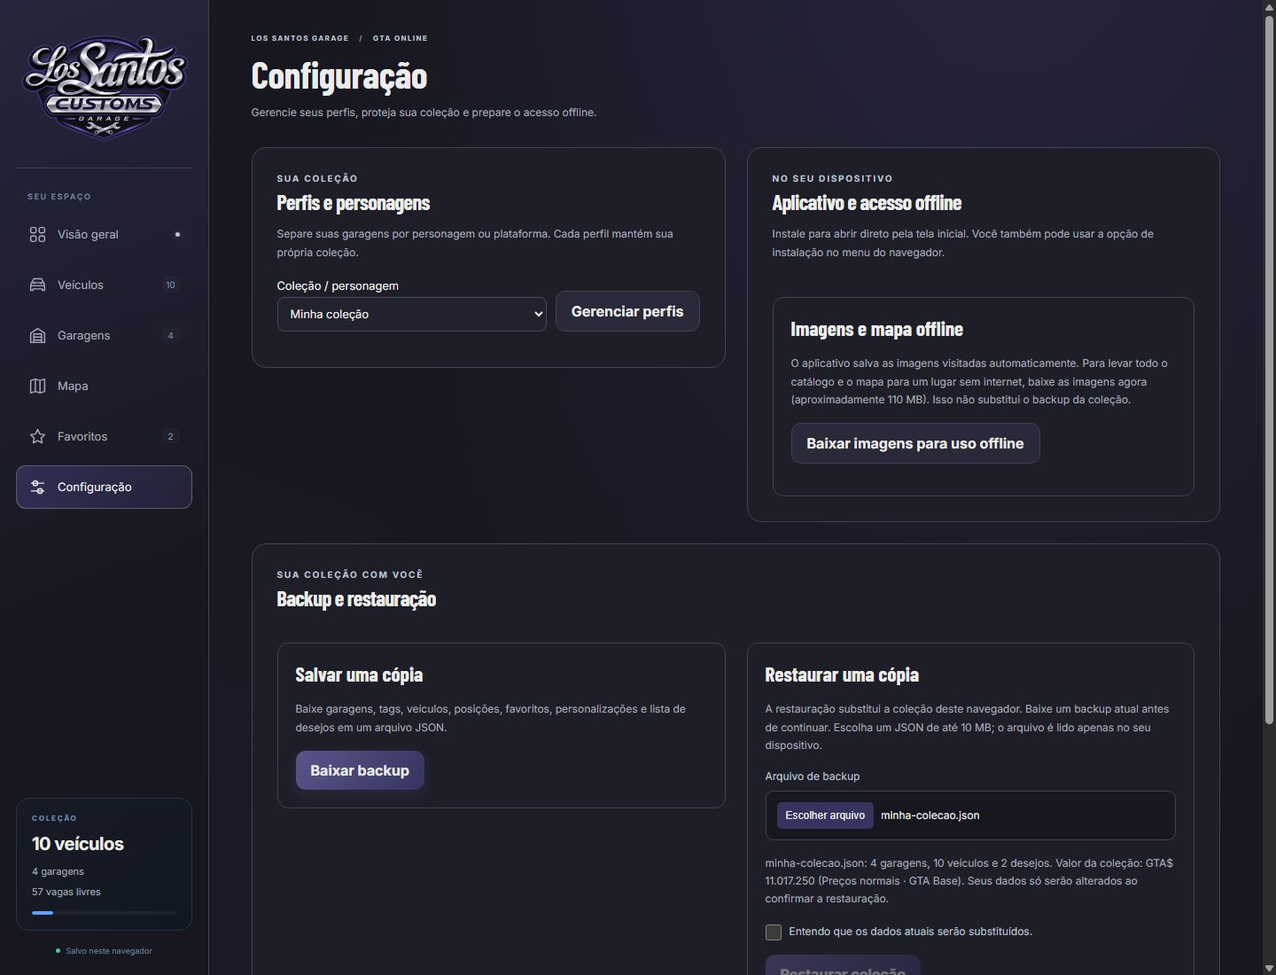
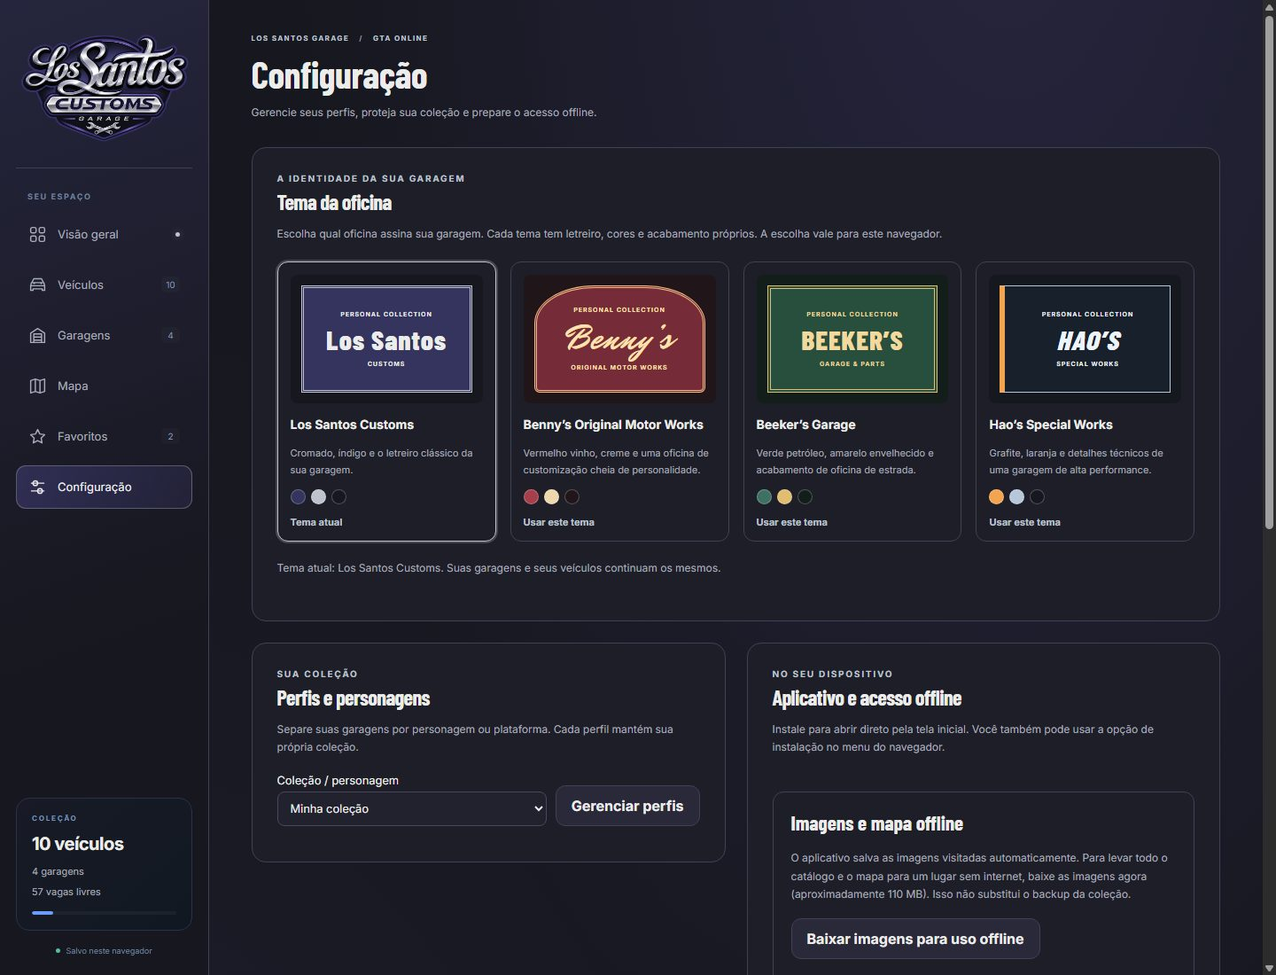
feat: adiciona identidades de oficinas como temas da garagem

diff --git a/workshop-themes.css b/workshop-themes.css
@@ -1,0 +1,78 @@
+:root { --wk-bg:#17171f;--wk-panel:#1e1e29;--wk-raised:#29293a;--wk-line:#414155;--wk-accent:#bfc3ce;--wk-strong:#35345f;--wk-muted:#a8acba;--wk-text:#ecedeb;--wk-button:#59558b;--wk-button-text:#ecedeb; }
+:root[data-workshop-theme=bennys] { --wk-bg:#201619;--wk-panel:#2d1e23;--wk-raised:#3b2930;--wk-line:#65424a;--wk-accent:#efbc83;--wk-strong:#a23d4c;--wk-muted:#c9b5b6;--wk-text:#fff1de;--wk-button:#9e3444;--wk-button-text:#fff1de; }
+:root[data-workshop-theme=beekers] { --wk-bg:#131e1b;--wk-panel:#1d2d26;--wk-raised:#273e33;--wk-line:#4a6659;--wk-accent:#e1bd72;--wk-strong:#47765e;--wk-muted:#b2c6b9;--wk-text:#f0f0dc;--wk-button:#355a46;--wk-button-text:#f0f0dc; }
+:root[data-workshop-theme=haos] { --wk-bg:#15191f;--wk-panel:#1d2632;--wk-raised:#293444;--wk-line:#4d5c70;--wk-accent:#ffbd72;--wk-strong:#465d77;--wk-muted:#b6c5d8;--wk-text:#eef4fb;--wk-button:#f3a450;--wk-button-text:#1a202b; }
+:root[data-workshop-theme]:not([data-workshop-theme=lsc]) { --bg:var(--wk-bg);--graphite:var(--wk-bg);--surface:var(--wk-panel);--surface-2:var(--wk-raised);--line:var(--wk-line);--accent:var(--wk-accent);--accent-2:var(--wk-strong);--indigo:var(--wk-strong);--violet:var(--wk-strong);--silver:var(--wk-accent);--ice:var(--wk-text);--muted:var(--wk-muted);--text:var(--wk-text); }
+html[data-workshop-theme]:not([data-workshop-theme=lsc]) body { background:radial-gradient(ellipse at 90% 0,color-mix(in srgb,var(--wk-strong) 30%,transparent),transparent 48%),var(--wk-bg); }
+html[data-workshop-theme]:not([data-workshop-theme=lsc]) .sidebar { background:linear-gradient(160deg,var(--wk-panel),var(--wk-bg) 70%);border-color:var(--wk-line); }
+html[data-workshop-theme]:not([data-workshop-theme=lsc]) :is(.stat-card,.garage-card,.vehicle-card,.sidebar-card,.search,#categoryFilter,.plus-filters select,.plus-bar select,.plus-notice,dialog,.secondary-button) { background:var(--wk-panel);border-color:var(--wk-line);color:var(--wk-text); }
+html[data-workshop-theme]:not([data-workshop-theme=lsc]) :is(.stat-card.collection-value-card,.nav-item.active) { background:linear-gradient(120deg,color-mix(in srgb,var(--wk-strong) 45%,var(--wk-panel)),var(--wk-panel));border-color:var(--wk-accent);color:var(--wk-text); }
+html[data-workshop-theme]:not([data-workshop-theme=lsc]) :is(.eyebrow,.page-breadcrumb,.search input,.collection-value-card strong,.stat-icon.green,.stat-icon.blue,.stat-icon.cyan) { color:var(--wk-accent); }
+html[data-workshop-theme]:not([data-workshop-theme=lsc]) .primary-button { color:var(--wk-button-text);background:var(--wk-button);border-color:var(--wk-accent);box-shadow:0 5px 18px #0003; }
+html[data-workshop-theme]:not([data-workshop-theme=lsc]) .primary-button:hover { filter:brightness(1.13); }
+html[data-workshop-theme]:not([data-workshop-theme=lsc]) .secondary-button:hover { background:var(--wk-raised); }
+html[data-workshop-theme]:not([data-workshop-theme=lsc]) :is(.settings-card,.vehicle-image,.vehicle-draft-preview,.comparison-table,.batch-vehicle,.wishlist-card) { border-color:var(--wk-line); }
+html[data-workshop-theme]:not([data-workshop-theme=lsc]) .lsg-brand-banner { background:repeating-linear-gradient(0deg,#0001 0 3px,transparent 3px 20px),linear-gradient(110deg,var(--wk-strong),var(--wk-bg) 70%);border:1px solid var(--wk-accent);border-bottom:7px solid var(--wk-strong);min-height:280px;padding:32px 38px 48px; }
+html[data-workshop-theme]:not([data-workshop-theme=lsc]) .lsg-wordmark { width:50%;max-width:440px; }
+html[data-workshop-theme]:not([data-workshop-theme=lsc]) :is(.brand-logo,.lsg-banner-logo) { display:none; }
+html[data-workshop-theme]:not([data-workshop-theme=lsc]) .lsg-brand-caption { border-color:var(--wk-accent); }
+html[data-workshop-theme]:not([data-workshop-theme=lsc]) .lsg-brand-caption :is(h2,span) { color:var(--wk-text); }
+html[data-workshop-theme]:not([data-workshop-theme=lsc]) .lsg-brand-caption small { color:var(--wk-muted); }
+html[data-workshop-theme]:not([data-workshop-theme=lsc]) .lsg-banner-stripe { background:var(--wk-accent);box-shadow:-5px 0 var(--wk-strong); }
+.workshop-mark { display:none; }
+html[data-workshop-theme]:not([data-workshop-theme=lsc]) .workshop-mark,.workshop-theme-preview .workshop-mark { display:flex;flex-direction:column;align-items:center;justify-content:center;gap:9px;text-align:center;width:100%;min-width:0;color:var(--wk-text);padding:26px 14px;border:3px double var(--wk-accent);background:var(--wk-panel);box-shadow:0 7px 0 #0004; }
+.workshop-mark strong { font:800 clamp(36px,5vw,78px)/1 "Barlow Condensed",sans-serif;letter-spacing:1px; }
+.workshop-mark small { font:600 10px/1.6 Inter,sans-serif;letter-spacing:3px; }
+.workshop-mark .workshop-initial { display:none; }
+.workshop-mark-mini { padding:18px 8px!important;gap:7px!important; }
+.workshop-mark-mini strong { font-size:36px; }
+.workshop-mark-mini small { font-size:7px;letter-spacing:1px; }
+html[data-workshop-theme=bennys] :is(.brand,.lsg-wordmark) .workshop-mark { border-radius:50% 50% 8px 8px / 22% 22% 8px 8px;background:#762b38;color:#ffe2af;border-color:#efbc83; }
+html[data-workshop-theme=bennys] :is(.brand,.lsg-wordmark) .workshop-mark strong { font-family:"Mr Dafoe","Brush Script MT",cursive;font-weight:400;text-shadow:2px 3px #32171c; }
+html[data-workshop-theme=bennys] .lsg-brand-banner::before { background:repeating-linear-gradient(45deg,#efd8ad09 0 8px,transparent 8px 20px);border-color:#efbc8355; }
+html[data-workshop-theme=beekers] :is(.brand,.lsg-wordmark) .workshop-mark { background:repeating-linear-gradient(0deg,#ffffff05 0 2px,transparent 2px 6px),#284e3d;border-color:#e1bd72;border-width:5px;border-style:double;color:#f1d99f;transform:rotate(-1deg); }
+html[data-workshop-theme=beekers] :is(.brand,.lsg-wordmark) .workshop-mark strong { font-stretch:condensed;letter-spacing:3px; }
+html[data-workshop-theme=haos] :is(.brand,.lsg-wordmark) .workshop-mark { border-width:1px;border-left:9px solid #f3a450;background:repeating-linear-gradient(125deg,#ffffff03 0 3px,transparent 3px 7px),#18212b;color:#eef4fb; }
+html[data-workshop-theme=haos] :is(.brand,.lsg-wordmark) .workshop-mark strong { font-style:italic;letter-spacing:7px; }
+html[data-workshop-theme=haos] :is(.brand,.lsg-wordmark) .workshop-mark small:last-of-type { color:#ffbd72; }
+html[data-workshop-theme=haos] .lsg-brand-banner::before { background:linear-gradient(125deg,transparent 56%,#f3a45222 56% 58%,transparent 58% 60%,#f3a45233 60% 62%,transparent 62%);border-radius:0; }
+.workshop-bay-plaque { display:none; }
+html[data-workshop-theme]:not([data-workshop-theme=lsc]) .workshop-bay-plaque { display:block;position:absolute;bottom:17px;left:40px;font:700 9px/1.4 Inter,sans-serif;letter-spacing:3px;color:var(--wk-accent); }
+.workshop-theme-choices { display:grid;grid-template-columns:repeat(4,minmax(0,1fr));gap:16px;margin:20px 0; }
+.workshop-theme-choice { min-width:0;display:flex;flex-direction:column;align-items:flex-start;gap:13px;padding:14px;border:1px solid var(--line);border-radius:12px;background:var(--surface);color:var(--text);text-align:left;cursor:pointer; }
+.workshop-theme-choice[aria-pressed=true] { border-color:var(--silver);box-shadow:0 0 0 2px color-mix(in srgb,var(--silver) 25%,transparent); }
+.workshop-theme-choice:focus-visible { outline:3px solid var(--silver);outline-offset:4px; }
+.workshop-theme-choice>strong { font-size:14px;line-height:1.5; }
+.workshop-theme-preview { display:flex;align-items:center;justify-content:center;width:100%;height:145px;padding:12px;background:#17171f;border-radius:8px;overflow:hidden; }
+.workshop-theme-preview .workshop-mark { display:flex!important;min-height:100%;padding:12px 6px;gap:7px;box-shadow:none;color:#ecedeb;background:#35345f;border-color:#bfc3ce;transform:none; }
+.workshop-theme-preview .workshop-mark strong { font:800 31px/1 "Barlow Condensed",sans-serif;letter-spacing:1px; }
+.workshop-theme-preview .workshop-mark small { font:600 7px/1.6 Inter,sans-serif;letter-spacing:1px; }
+.workshop-theme-choice[data-workshop-choice=bennys] .workshop-theme-preview { background:#201619; }
+.workshop-theme-choice[data-workshop-choice=bennys] .workshop-mark { color:#ffe2af!important;background:#762b38!important;border:3px double #efbc83!important;border-radius:35% 35% 6px 6px; }
+.workshop-theme-choice[data-workshop-choice=bennys] .workshop-mark strong { font-family:"Mr Dafoe","Brush Script MT",cursive;font-size:40px;font-weight:400; }
+.workshop-theme-choice[data-workshop-choice=beekers] .workshop-theme-preview { background:#131e1b; }
+.workshop-theme-choice[data-workshop-choice=beekers] .workshop-mark { color:#f1d99f!important;background:#284e3d!important;border:4px double #e1bd72!important;border-radius:0; }
+.workshop-theme-choice[data-workshop-choice=haos] .workshop-theme-preview { background:#15191f; }
+.workshop-theme-choice[data-workshop-choice=haos] .workshop-mark { color:#eef4fb!important;background:#18212b!important;border:1px solid #b7c7d9!important;border-left:6px solid #f3a450!important;border-radius:0; }
+.workshop-theme-choice[data-workshop-choice=haos] .workshop-mark strong { font-style:italic; }
+.workshop-choice-description { color:var(--muted);font-size:11px;line-height:1.7;flex:1; }
+.workshop-swatches { display:flex;gap:6px; }
+.workshop-swatches i { width:17px;height:17px;border:1px solid #ffffff40;border-radius:50%; }
+.workshop-choice-state { font-size:11px;font-weight:700;color:var(--silver); }
+@media(max-width:1100px) { .workshop-theme-choices { grid-template-columns:repeat(2,minmax(0,1fr)); } }
+@media(min-width:761px) and (max-width:1050px) {
+  .brand .workshop-mark-mini { border:0!important;transform:none!important;background:none!important;box-shadow:none;padding:0!important; }
+  .brand .workshop-mark-mini :is(strong,small) { display:none; }
+  .brand .workshop-initial { display:block;font:800 17px/1.4 "Barlow Condensed",sans-serif;color:var(--wk-accent); }
+}
+@media(max-width:760px) {
+  html[data-workshop-theme]:not([data-workshop-theme=lsc]) .lsg-brand-banner { padding:26px 20px 48px; }
+  html[data-workshop-theme]:not([data-workshop-theme=lsc]) .lsg-wordmark { width:100%; }
+  .workshop-bay-plaque { left:22px!important;font-size:8px!important; }
+  .workshop-theme-choices { gap:10px; }
+  .workshop-theme-choice { padding:10px;gap:10px; }
+  .workshop-theme-preview { padding:5px;height:120px; }
+  .workshop-theme-preview .workshop-mark strong { font-size:24px; }
+  .workshop-theme-preview .workshop-mark small { font-size:6px;letter-spacing:0; }
+}
+@media(max-width:380px) { .workshop-theme-choices { grid-template-columns:minmax(0,1fr); } }

diff --git a/workshop-themes.js b/workshop-themes.js
@@ -1,0 +1,64 @@
+// Apply the saved identity before rendering the page. Collection data is separate.
+const WORKSHOP_THEME_KEY = "lsg-workshop-theme-v1";
+const WORKSHOP_THEMES = Object.freeze([
+  {id:"lsc",name:"Los Santos Customs",short:"LSC",heading:"Los Santos",tagline:"CUSTOMS",place:"LOS SANTOS · SAN ANDREAS",description:"Cromado, índigo e o letreiro clássico da sua garagem.",caption:"Sua coleção.\nCada carro no seu lugar.",footer:"Garagens, projetos e cultura automotiva.",color:"#17171f",palette:["#35345f","#bfc3ce","#17171f"]},
+  {id:"bennys",name:"Benny’s Original Motor Works",short:"B",heading:"Benny’s",tagline:"ORIGINAL MOTOR WORKS",place:"STRAWBERRY · LOS SANTOS",description:"Vermelho vinho, creme e uma oficina de customização cheia de personalidade.",caption:"Cada detalhe.\nUma assinatura sua.",footer:"Sua coleção de lowriders, clássicos e projetos especiais.",color:"#201619",palette:["#a63f4b","#efd8ad","#201619"]},
+  {id:"beekers",name:"Beeker’s Garage",short:"BG",heading:"BEEKER’S",tagline:"GARAGE & PARTS",place:"PALETO BAY · BLAINE COUNTY",description:"Verde petróleo, amarelo envelhecido e acabamento de oficina de estrada.",caption:"De portas abertas.\nPronta para a estrada.",footer:"Sua garagem no norte de San Andreas.",color:"#131e1b",palette:["#3e7163","#e1bd72","#131e1b"]},
+  {id:"haos",name:"Hao’s Special Works",short:"HSW",heading:"HAO’S",tagline:"SPECIAL WORKS",place:"LS CAR MEET · CYPRESS FLATS",description:"Grafite, laranja e detalhes técnicos de uma garagem de alta performance.",caption:"Seu próximo projeto.\nUm nível acima.",footer:"Uma coleção com espírito de preparação e desempenho.",color:"#15191f",palette:["#f3a450","#b7c7d9","#15191f"]}
+]);
+function readWorkshopTheme() {
+  try {const id=localStorage.getItem(WORKSHOP_THEME_KEY);return WORKSHOP_THEMES.find(theme=>theme.id===id)||WORKSHOP_THEMES[0];}
+  catch {return WORKSHOP_THEMES[0];}
+}
+document.documentElement.dataset.workshopTheme=readWorkshopTheme().id;
+function createWorkshopMark(theme, mini=false) {
+  const mark=document.createElement("span");mark.className="workshop-mark";
+  const upper=document.createElement("small"),title=document.createElement("strong"),lower=document.createElement("small"),initial=document.createElement("span");
+  upper.textContent="PERSONAL COLLECTION";title.textContent=theme.heading;lower.textContent=theme.tagline;
+  initial.className="workshop-initial";initial.textContent=theme.short;
+  mark.append(upper,title,lower,initial);if(mini)mark.classList.add("workshop-mark-mini");return mark;
+}
+function applyWorkshopTheme(id, persist=true) {
+  const theme=WORKSHOP_THEMES.find(entry=>entry.id===id);if(!theme)return false;
+  if(persist) {
+    try{localStorage.setItem(WORKSHOP_THEME_KEY,theme.id);}
+    catch{const status=document.querySelector("#workshopThemeStatus");if(status)status.textContent="Não foi possível salvar o tema. Verifique o armazenamento do navegador.";return false;}
+  }
+  document.documentElement.dataset.workshopTheme=theme.id;
+  document.querySelector('meta[name="theme-color"]')?.setAttribute("content",theme.color);
+  const brand=document.querySelector(".brand"),wordmark=document.querySelector(".lsg-wordmark"),banner=document.querySelector("#lsgBrandBanner");
+  if(brand){brand.querySelector(".workshop-mark")?.remove();brand.append(createWorkshopMark(theme,true));brand.setAttribute("aria-label",theme.id==="lsc"?"Los Santos Garage":`${theme.name} · Los Santos Garage`);}
+  if(wordmark){wordmark.querySelector(".workshop-mark")?.remove();wordmark.append(createWorkshopMark(theme));}
+  if(banner){
+    banner.setAttribute("aria-label",`${theme.name} · sua garagem`);
+    banner.querySelector(".lsg-brand-caption > span").textContent=theme.place;
+    const heading=banner.querySelector(".lsg-brand-caption h2");heading.replaceChildren();
+    theme.caption.split("\n").forEach((line,index)=>{if(index)heading.append(document.createElement("br"));heading.append(document.createTextNode(line));});
+    banner.querySelector(".lsg-brand-caption small").textContent=theme.footer;
+    let plaque=banner.querySelector(".workshop-bay-plaque");if(!plaque){plaque=document.createElement("span");plaque.className="workshop-bay-plaque";banner.append(plaque);}
+    plaque.textContent=`${theme.short} / PERSONAL GARAGE`;
+  }
+  document.querySelectorAll("[data-workshop-choice]").forEach(button=>{
+    const active=button.dataset.workshopChoice===theme.id;button.setAttribute("aria-pressed",String(active));
+    button.querySelector(".workshop-choice-state").textContent=active?"Tema atual":"Usar este tema";
+  });
+  const status=document.querySelector("#workshopThemeStatus");if(status)status.textContent=`Tema atual: ${theme.name}. Suas garagens e seus veículos continuam os mesmos.`;
+  return true;
+}
+function initializeWorkshopThemes() {
+  const choices=document.querySelector("#workshopThemeChoices");if(!choices)return;
+  WORKSHOP_THEMES.forEach(theme=>{
+    const button=document.createElement("button");button.type="button";button.className="workshop-theme-choice";button.dataset.workshopChoice=theme.id;
+    button.setAttribute("aria-pressed","false");button.setAttribute("aria-label",`Usar tema ${theme.name}`);
+    const preview=document.createElement("span");preview.className="workshop-theme-preview";preview.setAttribute("aria-hidden","true");preview.append(createWorkshopMark(theme));
+    const name=document.createElement("strong"),description=document.createElement("span"),state=document.createElement("span"),swatches=document.createElement("span");
+    name.textContent=theme.name;description.textContent=theme.description;description.className="workshop-choice-description";
+    swatches.className="workshop-swatches";swatches.setAttribute("aria-hidden","true");
+    theme.palette.forEach(color=>{const dot=document.createElement("i");dot.style.backgroundColor=color;swatches.append(dot);});
+    state.className="workshop-choice-state";button.append(preview,name,description,swatches,state);
+    button.addEventListener("click",()=>applyWorkshopTheme(theme.id));choices.append(button);
+  });
+  applyWorkshopTheme(readWorkshopTheme().id,false);
+}
+if(document.readyState==="loading")document.addEventListener("DOMContentLoaded",initializeWorkshopThemes,{once:true});else initializeWorkshopThemes();
+window.addEventListener("storage",event=>{if(event.key===WORKSHOP_THEME_KEY||event.key===null)applyWorkshopTheme(readWorkshopTheme().id,false);});

diff --git a/tests/collection-plus-check.js b/tests/collection-plus-check.js
@@ -2,6 +2,7 @@ async function checkCollectionPlus(check) {
   const snapshot=structuredClone(data),key=STORAGE_KEY,stored=localStorage.getItem(key),profilesRaw=localStorage.getItem(PROFILE_KEY),originalProfileId=sessionProfileId;
   const recoveryRaw=localStorage.getItem(`${key}-recovery`),known=new Map(storageSession.known),undo=[...storageSession.undo];
   const rejects=value=>{try{parseCollectionBackup(JSON.stringify(value));return false;}catch{return true;}};
+  const previousTheme=localStorage.getItem(WORKSHOP_THEME_KEY);
   try {
     // Other tests restore localStorage directly; establish the known baseline explicitly.
     storageSession.known.set(key,stored);storageSession.blocked=false;storageSession.undo=[];
@@ -15,6 +16,19 @@ async function checkCollectionPlus(check) {
     $('[data-filter="settings"]').click();
     check("configurações reúnem perfis aplicativo e backup",!$('#settingsSection').hidden && $('#settingsSection').contains($('#collectionProfile')) && $('#settingsSection').contains($('#installApp')) && $('#settingsSection').contains($('#backupPanel')) && $('.collection-toolbar').hidden && $('.top-actions').hidden && $('#vehicleSection').hidden && document.activeElement.id==='pageTitle');
     check("configurações cabem na tela",document.documentElement.scrollWidth<=innerWidth+1 && $('#settingsSection').scrollWidth<=$('#settingsSection').clientWidth+1);
+    const collectionBeforeTheme=JSON.stringify(data);
+    for(const theme of WORKSHOP_THEMES) {
+      $(`[data-workshop-choice="${theme.id}"]`).click();
+      check(`tema ${theme.id} muda identidade e persiste`,document.documentElement.dataset.workshopTheme===theme.id && localStorage.getItem(WORKSHOP_THEME_KEY)===theme.id && $('#lsgBrandBanner').getAttribute('aria-label').includes(theme.name) && $$('[data-workshop-choice][aria-pressed=true]').length===1);
+      check(`seletor ${theme.id} cabe no celular`,document.documentElement.scrollWidth<=innerWidth+1 && $('#workshopThemeChoices').scrollWidth<=$('#workshopThemeChoices').clientWidth+1);
+    }
+    check("trocar tema preserva coleção e decorações",JSON.stringify(data)===collectionBeforeTheme);
+    const themeBeforeInvalid=document.documentElement.dataset.workshopTheme;
+    check("tema desconhecido não é aplicado",!applyWorkshopTheme('invalid') && document.documentElement.dataset.workshopTheme===themeBeforeInvalid);
+    const originalThemeSet=Storage.prototype.setItem;
+    try {Storage.prototype.setItem=function(){throw new Error('Full');};check("falha ao salvar tema mantém preferência anterior",!applyWorkshopTheme('bennys') && document.documentElement.dataset.workshopTheme===themeBeforeInvalid);}finally{Storage.prototype.setItem=originalThemeSet;}
+    localStorage.setItem(WORKSHOP_THEME_KEY,'invalid');check("preferência desconhecida usa tema padrão",readWorkshopTheme().id==='lsc');
+    localStorage.setItem(WORKSHOP_THEME_KEY,'lsc');applyWorkshopTheme('lsc',false);
     const stalePreview=previewBackupFile({name:'anterior.json',size:10,text:()=>new Promise(resolve=>setTimeout(()=>resolve(JSON.stringify(makeCollectionBackup())),30))});
     $('[data-filter="vehicles"]').click();await stalePreview;
     check("sair das configurações invalida restauração pendente",pendingCollectionBackup===null && $('#restoreBackup').disabled && $('#settingsSection').hidden && !$('.top-actions').hidden);
@@ -78,6 +92,8 @@ async function checkCollectionPlus(check) {
     switchProfile(active);localStorage.removeItem(profileStorageKey(created));localStorage.removeItem(`${profileStorageKey(created)}-recovery`);
     check("perfil e ferramentas cabem em celular",document.documentElement.scrollWidth<=innerWidth+1);
   } finally {
+    if(previousTheme===null)localStorage.removeItem(WORKSHOP_THEME_KEY);else localStorage.setItem(WORKSHOP_THEME_KEY,previousTheme);
+    applyWorkshopTheme(readWorkshopTheme().id,false);
     document.querySelectorAll('dialog[open]').forEach(d=>d.close());
     if(profilesRaw===null)localStorage.removeItem(PROFILE_KEY);else localStorage.setItem(PROFILE_KEY,profilesRaw);
     STORAGE_KEY=key;

diff --git a/sw.js b/sw.js
@@ -1,7 +1,7 @@
 /* The deploy script injects a content hash and the exact versioned shell URLs. */
 const VERSION = "development";
 const CACHE = `lsg-app-${VERSION}`;
-const SHELL = ["./", "index.html", "styles.css", "los-santos.css", "property-explorer.css", "collection-tools.css", "collection-plus.css", "app.js", "collection-storage.js", "collection-plus.js", "collection-tools.js", "catalog-ui.js", "wheels-ui.js", "vehicle-details.js", "garage-view.js", "garage-themes.js", "property-catalog.js", "property-explorer.js", "manifest.webmanifest", "app-icon.svg", "favicon.svg", "assets/vehicle-catalog.js", "assets/vehicle-reference.js", "assets/wheel-catalog.js", "assets/vehicle-images.js", "assets/interior-images.js", "assets/property-locations.js", "assets/property-images.js", "assets/logo-los-santos-customs.png"];
+const SHELL = ["./", "index.html", "styles.css", "los-santos.css", "property-explorer.css", "collection-tools.css", "collection-plus.css", "workshop-themes.css", "workshop-themes.js", "app.js", "collection-storage.js", "collection-plus.js", "collection-tools.js", "catalog-ui.js", "wheels-ui.js", "vehicle-details.js", "garage-view.js", "garage-themes.js", "property-catalog.js", "property-explorer.js", "manifest.webmanifest", "app-icon.svg", "favicon.svg", "assets/vehicle-catalog.js", "assets/vehicle-reference.js", "assets/wheel-catalog.js", "assets/vehicle-images.js", "assets/interior-images.js", "assets/property-locations.js", "assets/property-images.js", "assets/logo-los-santos-customs.png"];
 self.addEventListener("install", event => {
   event.waitUntil(caches.open(CACHE).then(cache => cache.addAll(SHELL.map(path => new Request(path,{cache:"reload"})))).then(() => self.skipWaiting()));
   // Activate the complete new shell even when an older tab is still open.

diff --git a/index.html b/index.html
@@ -16,6 +16,8 @@
   <link rel="stylesheet" href="property-explorer.css">
   <link rel="stylesheet" href="collection-tools.css">
   <link rel="stylesheet" href="collection-plus.css">
+  <link rel="stylesheet" href="workshop-themes.css">
+  <script src="workshop-themes.js"></script>
 </head>
 <body>
   <svg class="icon-library" xmlns="http://www.w3.org/2000/svg" aria-hidden="true"><defs>
@@ -129,6 +131,12 @@
       </section>
       <section id="mapSection" class="property-map-section" aria-label="Mapa de propriedades com garagem" hidden></section>
       <section id="settingsSection" class="settings-page" aria-label="Configuração" hidden>
+        <section class="settings-card workshop-theme-settings" aria-labelledby="workshopThemeTitle">
+          <p class="eyebrow">A IDENTIDADE DA SUA GARAGEM</p><h2 id="workshopThemeTitle">Tema da oficina</h2>
+          <p class="tool-hint">Escolha qual oficina assina sua garagem. Cada tema tem letreiro, cores e acabamento próprios. A escolha vale para este navegador.</p>
+          <div id="workshopThemeChoices" class="workshop-theme-choices" role="group" aria-label="Escolher tema da oficina"></div>
+          <p id="workshopThemeStatus" class="tool-hint" role="status"></p>
+        </section>
         <div class="settings-grid">
           <section class="settings-card" aria-labelledby="settingsProfilesTitle">
             <p class="eyebrow">SUA COLEÇÃO</p><h2 id="settingsProfilesTitle">Perfis e personagens</h2>

diff --git a/README.md b/README.md
@@ -37,6 +37,12 @@ Cadastros já salvos são preservados nas atualizações.
   Os lembretes de backup ficam nessa página; os atalhos de desejos, comparação e
   metas aparecem apenas na aba **Veículos**. O botão **Desfazer** fica junto aos
   controles dos veículos.
+- **Tema da oficina:** em **Configuração → Tema da oficina**, escolha Los Santos Customs,
+  Benny’s Original Motor Works, Beeker’s Garage ou Hao’s Special Works. Cada uma assina
+  a garagem com letreiro, cores, acabamentos e textos próprios. A seleção é aplicada
+  na hora, fica salva neste navegador e funciona offline. Perfis, veículos, garagens
+  e decorações de interiores são preservados; o tema visual é uma preferência do
+  navegador, separada dos backups das coleções. Los Santos Customs é o padrão.
 - **Perfis por personagem/plataforma:** selecione a coleção ativa ou crie e renomeie
   perfis independentes. Os dados existentes ficam em **Minha coleção**, sem migração
   destrutiva. Cada backup JSON contém apenas o perfil ativo.
@@ -119,6 +125,15 @@ Cadastros já salvos são preservados nas atualizações.
 - Layout responsivo para computador e celular.
 
 ## Conheça o site
+
+### Uma garagem com a identidade da sua oficina
+
+Escolha o tema em **Configuração**. Veja as versões
+[Los Santos Customs](docs/images/tema-lsc.jpg),
+[Benny’s](docs/images/tema-bennys.jpg), [Beeker’s](docs/images/tema-beekers.jpg)
+e [Hao’s](docs/images/tema-haos.jpg).
+
+![Garagem com a identidade visual da Benny’s Original Motor Works](docs/images/tema-bennys.jpg)
 
 ### Cada carro no seu lugar
 
